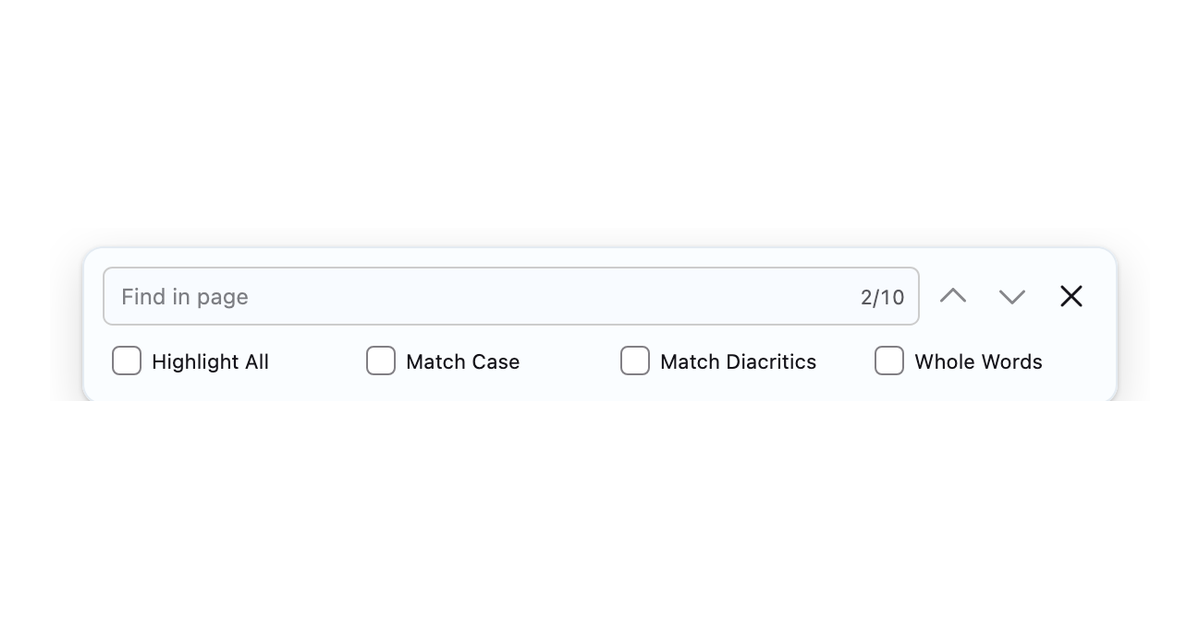
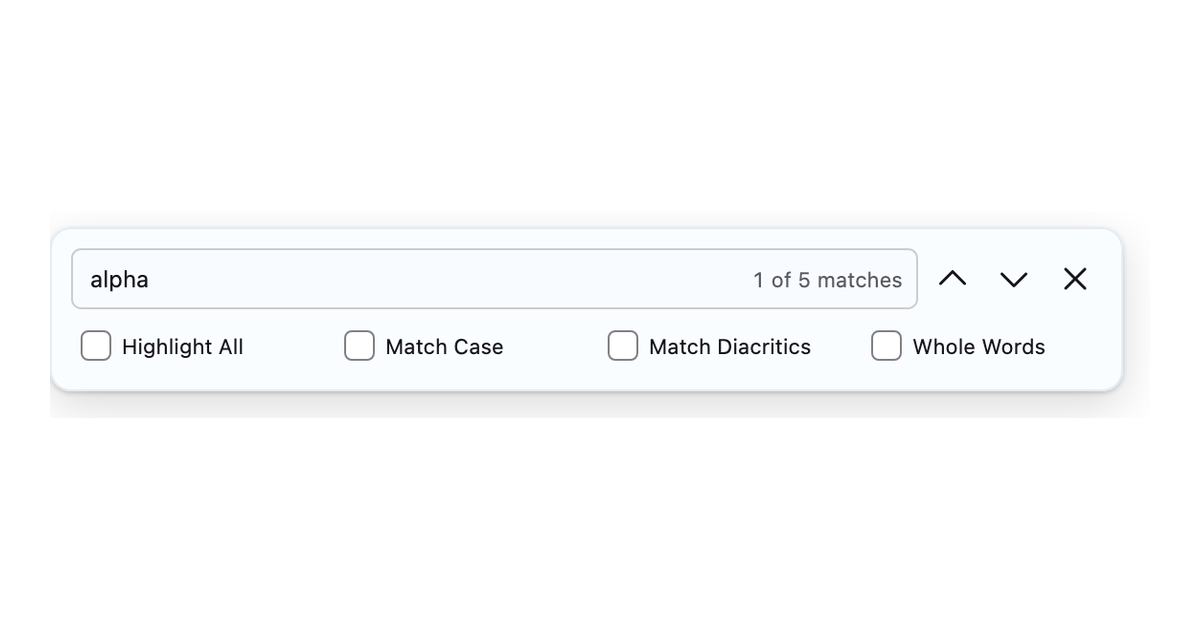
chore: 更新商店材料与验收预览图

Changed region(s): [[0.0308, 0.3921, 0.925, 0.6333], [0.8325, 0.4222, 0.925, 0.4825]]

diff --git a/tools/build_store_package.py b/tools/build_store_package.py
@@ -93,16 +93,17 @@ def main() -> None:
         "- [x] `theme.json` 的 name/description/author/homepage 与上表一致。",
         "- [x] CSS 无 `@-moz-document` 包裹、无本地绝对路径、无诊断脚本内容。",
         "- [x] `preferences.json` 是合法 JSON；CSS 大括号配对；纯 ASCII。",
-        "- [x] 当前版本 PNG 预览图已准备（1200x630，取自已验证的 1.23.3b 临时 profile）。",
-        "- [ ] 当前 Zen 1.23.3b 的完整交互验收：实际输入、Enter/Shift+Enter、Esc、"
+        "- [x] 当前版本 PNG 预览图已准备（1200x630，取自已验证的 1.23.3b 临时 profile，显示实际 `1 of 5 matches` 计数）。",
+        "- [x] 当前 Zen 1.23.3b 的完整交互验收：实际输入、Enter/Shift+Enter、Esc、"
         "无匹配、计数更新、所有原生选项。",
-        "- [ ] 深色/自动主题、真实 320/520/1280 窗口、侧栏、紧凑模式、分屏、"
-        "禁用 Mod 恢复。",
-        "- [ ] 确认接受商店的 CC BY-NC-SA 4.0 授权。",
+        "- [x] 深色/浅色主题、真实窗口宽度、侧栏、紧凑模式、分屏、"
+        "禁用 Mod 恢复；320px 场景由 macOS 最小窗口钳制，实际测到更窄的 238px/258px。",
+        "- [ ] 确认接受商店的 CC BY-NC-SA 4.0 授权（只有作者本人能确认）。",
         "",
-        "> 布局、九位置、窄面板、隐藏开关和焦点样式已在 1.23.3b 临时 profile 通过；"
-        "上面未勾选的项目仍建议在正式提交前完成。预览图是聚焦图，"
-        "不是完整桌面截图，可在最终验收后替换。",
+        "> 1.23.3b 临时 profile 已完成交互、九位置、窄面板、侧栏、紧凑、分屏、"
+        "深浅主题、自定义背景、禁用恢复验收；1.22b 本轮未回归（本机无该版本）。"
+        "Cmd/Ctrl+F 实际键盘路径和深色系统自动主题未单独模拟。"
+        "预览图是聚焦图，不是完整桌面截图。",
         "",
         "## 6. 提交之后",
         "",

diff --git a/docs/STORE-SUBMISSION-PACKAGE.md b/docs/STORE-SUBMISSION-PACKAGE.md
@@ -34,7 +34,7 @@ Issue 标题：
 ## 2. Theme Styles（粘贴到 Theme Styles 输入框）
 
 ```css
-/* Zen 1.22b baseline; 1.23.3b layout re-verified, full re-verification pending. */
+/* Zen 1.22b baseline; fully re-verified on Zen 1.23.3b (Gecko 158.0). */
 findbar {
   --zen-find-x: -50%;
   --zen-find-y: 0%;
@@ -305,9 +305,10 @@ Open **Settings → Zen Mods → Zen Find** to change the position or enable com
 
 ## Compatibility
 
-- Baseline: Zen 1.22b (Gecko 155.0.1).
-- Layout, nine positions, narrow panel, compact mode and focus styles verified on Zen 1.23.3b (Gecko 158.0).
-- Full interaction and theme acceptance on 1.23.3b is still in progress.
+- Current target: Zen 1.23.3b (Gecko 158.0).
+- Historical baseline: Zen 1.22b (Gecko 155.0.1).
+- Verified on Zen 1.23.3b: input, Enter/Shift+Enter, Esc, no-match state, all native options, nine positions, narrow panels, sidebar, compact mode, split view, light/dark themes, custom background and disabling the mod.
+- The 1.22b build was not re-tested in this round.
 
 ## Notes
 
@@ -370,12 +371,12 @@ Theme store submissions are licensed under CC BY-NC-SA 4.0.
 - [x] `theme.json` 的 name/description/author/homepage 与上表一致。
 - [x] CSS 无 `@-moz-document` 包裹、无本地绝对路径、无诊断脚本内容。
 - [x] `preferences.json` 是合法 JSON；CSS 大括号配对；纯 ASCII。
-- [x] 当前版本 PNG 预览图已准备（1200x630，取自已验证的 1.23.3b 临时 profile）。
-- [ ] 当前 Zen 1.23.3b 的完整交互验收：实际输入、Enter/Shift+Enter、Esc、无匹配、计数更新、所有原生选项。
-- [ ] 深色/自动主题、真实 320/520/1280 窗口、侧栏、紧凑模式、分屏、禁用 Mod 恢复。
-- [ ] 确认接受商店的 CC BY-NC-SA 4.0 授权。
+- [x] 当前版本 PNG 预览图已准备（1200x630，取自已验证的 1.23.3b 临时 profile，显示实际 `1 of 5 matches` 计数）。
+- [x] 当前 Zen 1.23.3b 的完整交互验收：实际输入、Enter/Shift+Enter、Esc、无匹配、计数更新、所有原生选项。
+- [x] 深色/浅色主题、真实窗口宽度、侧栏、紧凑模式、分屏、禁用 Mod 恢复；320px 场景由 macOS 最小窗口钳制，实际测到更窄的 238px/258px。
+- [ ] 确认接受商店的 CC BY-NC-SA 4.0 授权（只有作者本人能确认）。
 
-> 布局、九位置、窄面板、隐藏开关和焦点样式已在 1.23.3b 临时 profile 通过；上面未勾选的项目仍建议在正式提交前完成。预览图是聚焦图，不是完整桌面截图，可在最终验收后替换。
+> 1.23.3b 临时 profile 已完成交互、九位置、窄面板、侧栏、紧凑、分屏、深浅主题、自定义背景、禁用恢复验收；1.22b 本轮未回归（本机无该版本）。Cmd/Ctrl+F 实际键盘路径和深色系统自动主题未单独模拟。预览图是聚焦图，不是完整桌面截图。
 
 ## 6. 提交之后
 

diff --git a/docs/THEME-STORE-SUBMISSION.md b/docs/THEME-STORE-SUBMISSION.md
@@ -17,17 +17,24 @@
 
 ## 提交前必须完成
 
-- [ ] 使用当前 Zen 1.23.3b 完成打开、输入、Enter、Shift+Enter、Esc、无匹配和所有原生选项测试（1.22b 记录见 `VERIFICATION.md`）。
-- [ ] 检查浅色、深色、窄窗口、紧凑模式和九种位置组合。
-- [ ] 确认纯色背景不透出网页，边缘阴影清晰，原生控件可读。
-- [x] 已准备当前版本的 PNG 预览图：`docs/images/store-preview.png`（临时聚焦图，可在最终验收后替换）。
+- [x] 在当前 Zen 1.23.3b 上完成打开、输入、Enter、Shift+Enter、Esc、无匹配、计数更新和所有原生选项测试（2026-10-20，临时 profile；1.22b 历史记录见 `VERIFICATION.md`）。
+- [x] 检查浅色、深色、窄窗口、侧栏、紧凑模式、分屏、禁用恢复和九种位置组合。
+- [x] 确认纯色背景不透出网页，边缘阴影清晰，原生控件可读；自定义背景、`transparent` 和非法颜色也做了检查。
+- [x] 已准备当前版本的 PNG 预览图：`docs/images/store-preview.png`（1200x630，实际 `1 of 5 matches` 计数）。
 - [x] 确认 `theme.json` 的 author/description 与上表一致。
-- [ ] 若直接使用仓库 `theme.json` 作为商店元数据，将 `style`、`preferences`、`readme` 替换为真实 HTTPS URL。
+- [ ] 若直接使用仓库 `theme.json` 作为商店元数据，将 `style`、`preferences`、`readme` 替换为真实 HTTPS URL；走 issue 表单时使用材料包中的 raw URL，主题商店机器人负责目录。
 - [x] 检查 CSS、JSON 和商店 README 中没有本地绝对路径、临时诊断标记或开发环境信息。
 - [ ] 确认接受主题商店的 CC BY-NC-SA 4.0 授权条款。
+
+## 已完成，但仍有边界
+
+- 1.22b 本轮没有可执行环境，未做回归；1.23.3b 是当前验收目标。
+- Cmd/Ctrl+F 快捷键没有用真实键盘事件单独模拟；已通过原生 findbar 打开、输入、Enter/Shift+Enter、Esc 路径验证，CSS 不改变快捷键处理。
+- 深色系统的“自动”主题没有单独模拟；显式深色和显式浅色已通过。
+- macOS 最小窗口宽度为 500，请求 320 会被钳制；实际已测到 238px/258px 的 findbar 宽度，覆盖 320px 场景。
 
 ## 提交入口
 
 在 <https://github.com/zen-browser/theme-store/issues/new?assignees=&labels=new-theme&projects=&template=create-theme.yml&title=%5Bcreate-theme%5D%3A+> 打开创建主题表单，填入上面的元数据，并粘贴 `chrome.css`、`docs/store-readme.md` 和 `preferences.json` 的内容。主题商店机器人会负责创建主题目录和后续 PR。
 
-当前不提交 issue：完整实机验收尚未完成。预览图已准备，材料包已生成。
+当前不提交 issue：1.23.3b 完整验收已完成，等待作者确认 CC BY-NC-SA 4.0 后提交。预览图和材料包均已按当前版本更新。

diff --git a/docs/store-readme.md b/docs/store-readme.md
@@ -27,9 +27,10 @@ Open **Settings → Zen Mods → Zen Find** to change the position or enable com
 
 ## Compatibility
 
-- Baseline: Zen 1.22b (Gecko 155.0.1).
-- Layout, nine positions, narrow panel, compact mode and focus styles verified on Zen 1.23.3b (Gecko 158.0).
-- Full interaction and theme acceptance on 1.23.3b is still in progress.
+- Current target: Zen 1.23.3b (Gecko 158.0).
+- Historical baseline: Zen 1.22b (Gecko 155.0.1).
+- Verified on Zen 1.23.3b: input, Enter/Shift+Enter, Esc, no-match state, all native options, nine positions, narrow panels, sidebar, compact mode, split view, light/dark themes, custom background and disabling the mod.
+- The 1.22b build was not re-tested in this round.
 
 ## Notes
 
